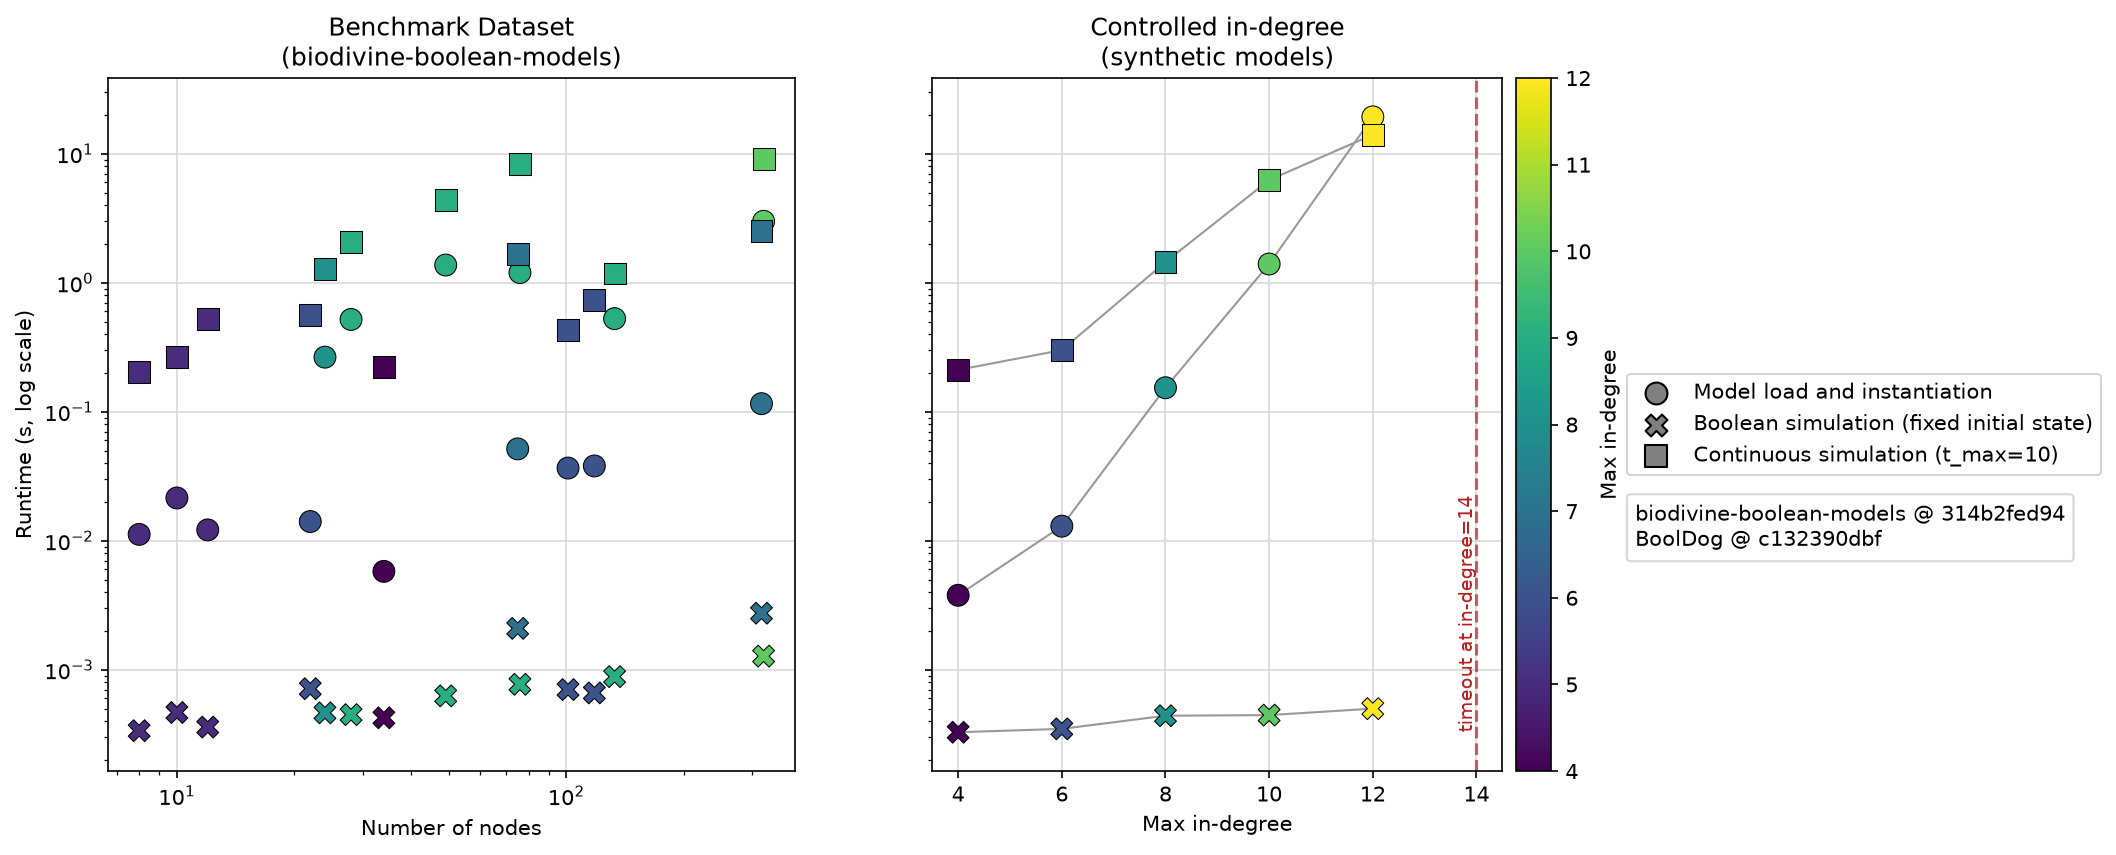
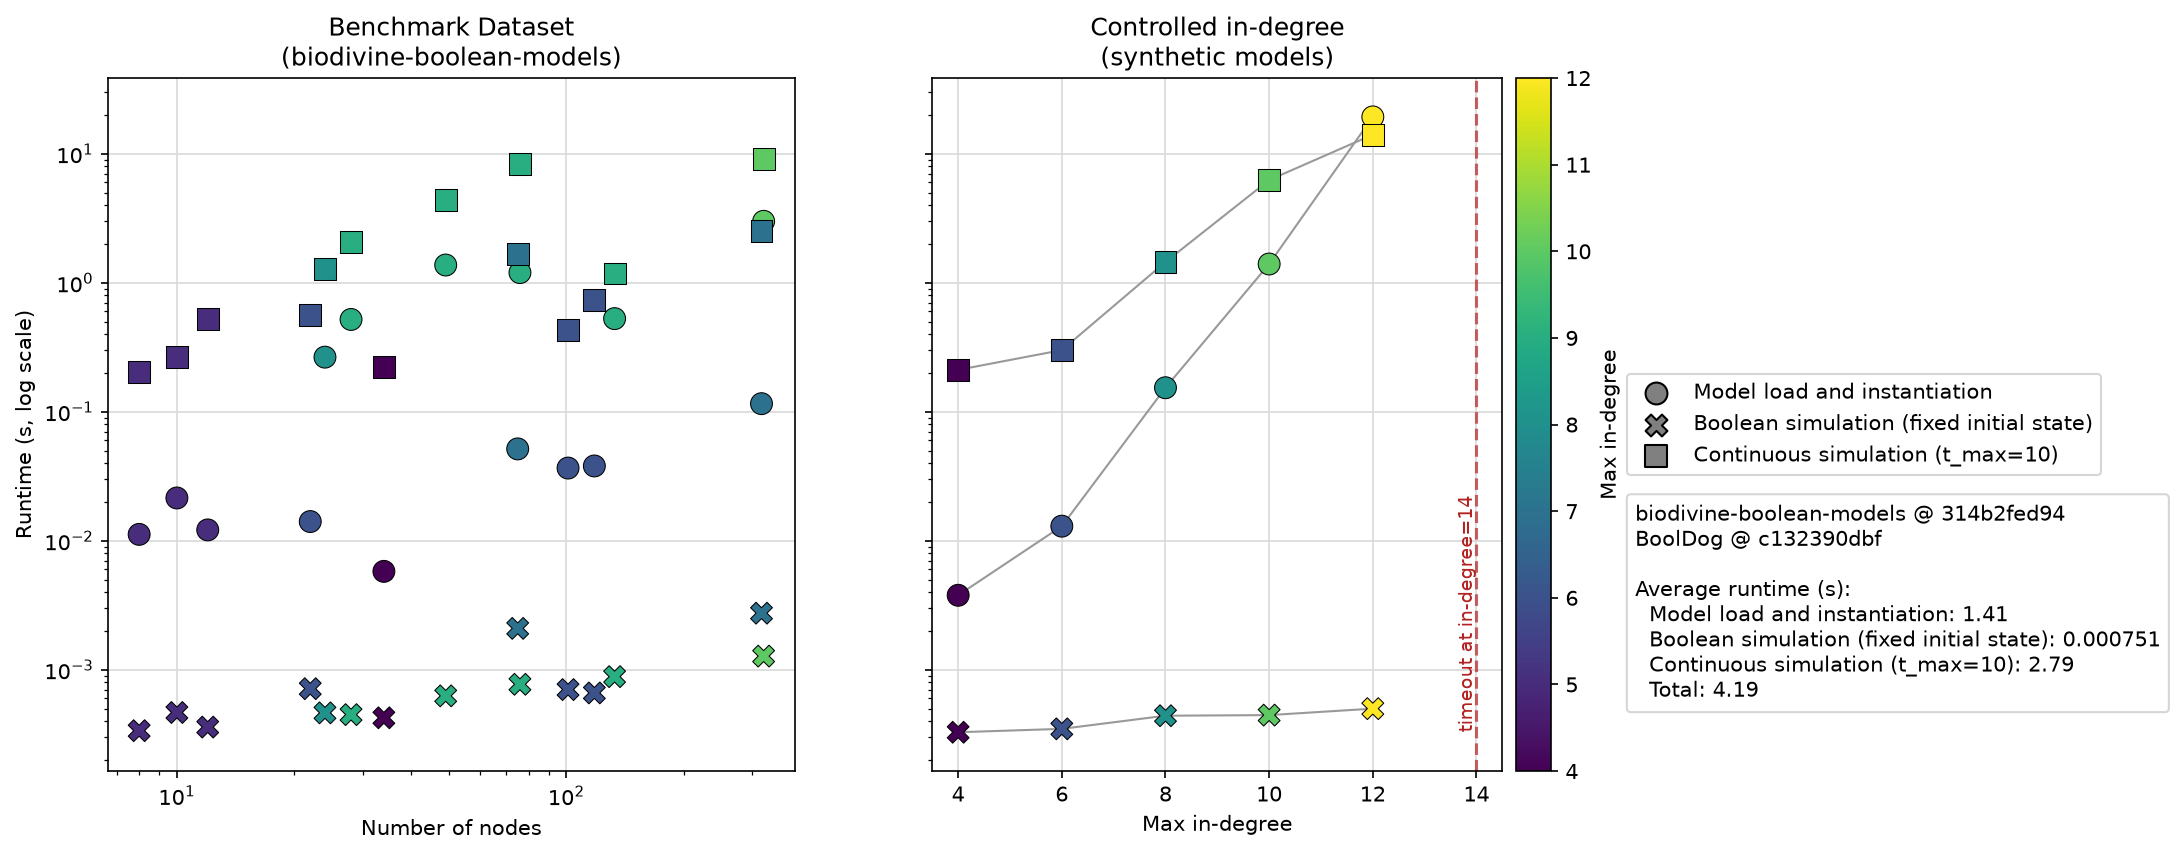
Add average runtime summary and clarify node-count units in benchmark

diff --git a/benchmarks/benchmark.py b/benchmarks/benchmark.py
@@ -234,24 +234,37 @@ def plot_combined():
         loc="center left",
     )
 
-    # Commit-provenance box, placed directly below the marker legend
+    # Commit provenance + average runtimes, in a single box below the
+    # marker legend, styled to match the legend frame exactly. (Two
+    # separately-positioned boxes stacked via successive get_window_extent
+    # calls drifted out of alignment -- a rendering quirk of this
+    # colorbar + out-of-axes-legend layout across repeated canvas draws --
+    # so this is one fig.text() call, one positioning step, done.)
     biodivine_commit = (RESULTS_DIR / "biodivine_commit.txt").read_text().strip()
     booldog_commit = (RESULTS_DIR / "booldog_commit.txt").read_text().strip()
-    commit_text = (
+
+    all_runtimes = pd.concat([nodecount[list(METRIC_LABELS)], indegree[list(METRIC_LABELS)]],
+                              ignore_index=True)
+    means = all_runtimes.mean()
+
+    info_text = (
         f"biodivine-boolean-models @ {biodivine_commit[:10]}\n"
-        f"BoolDog @ {booldog_commit[:10]}"
+        f"BoolDog @ {booldog_commit[:10]}\n"
+        "\n"
+        "Average runtime (s):\n" + "\n".join(
+            f"  {label}: {means[col]:.3g}" for col, label in METRIC_LABELS.items()
+        ) + f"\n  Total: {means.sum():.3g}"
     )
+
     fig.canvas.draw()
     legend_bbox_fig = metric_legend.get_window_extent(fig.canvas.get_renderer()) \
         .transformed(fig.transFigure.inverted())
     legend_frame = metric_legend.get_frame()
     fontsize = metric_legend.get_texts()[0].get_fontsize()
-
-    # Match the legend frame's own boxstyle exactly
     borderpad = plt.rcParams["legend.borderpad"]
     pad_fig_x = (borderpad * fontsize / 72.0) / fig.get_figwidth()
-    fig.text(
-        legend_bbox_fig.x0 + pad_fig_x, legend_bbox_fig.y0 - 0.03, commit_text,
+    info_box = fig.text(
+        legend_bbox_fig.x0 + pad_fig_x, legend_bbox_fig.y0 - 0.03, info_text,
         va="top", ha="left", fontsize=fontsize,
         family=metric_legend.get_texts()[0].get_fontfamily(),
         bbox=dict(boxstyle=f"round,pad={borderpad},rounding_size=0.2",
@@ -261,7 +274,7 @@ def plot_combined():
 
     FIGURES_DIR.mkdir(parents=True, exist_ok=True)
     fig.savefig(FIGURES_DIR / "scaling.png", dpi=150, bbox_inches="tight",
-                bbox_extra_artists=[metric_legend])
+                bbox_extra_artists=[metric_legend, info_box])
     print(f"wrote {FIGURES_DIR / 'scaling.png'}")
 
 

diff --git a/benchmarks/README.md b/benchmarks/README.md
@@ -6,7 +6,11 @@ This benchmarks BoolDog runtime (model load and instantiation, Boolean simulatio
 - **Node count:** models sampled across a wide size
   range (4-853 nodes) from
   [biodivine-boolean-models](https://github.com/sybila/biodivine-boolean-models),
-  a curated repository of real-world Boolean network models.
+  a curated repository of real-world Boolean network models. Note that
+  `n_nodes` here (and in `results/nodecount.tsv`) is `variables + inputs`
+  from biodivine's own `models/summary.csv` -- BoolDog counts all nodes
+  uniformly (input/free nodes get a trivial self-referencing rule), while
+  biodivine tracks them as a separate `inputs` count alongside `variables`.
 - **In-degree:** a controlled synthetic single node with increasing
   in-degree, reproducing the exact clause pattern from a known pyboolnet
   performance issue
